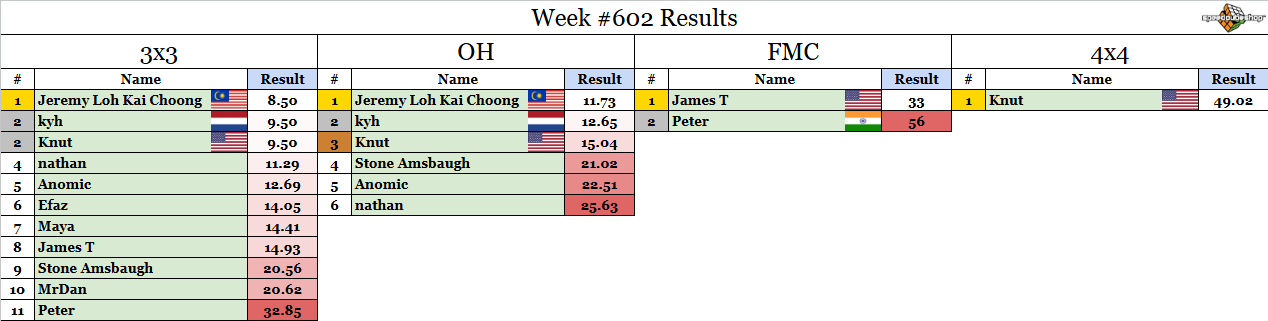
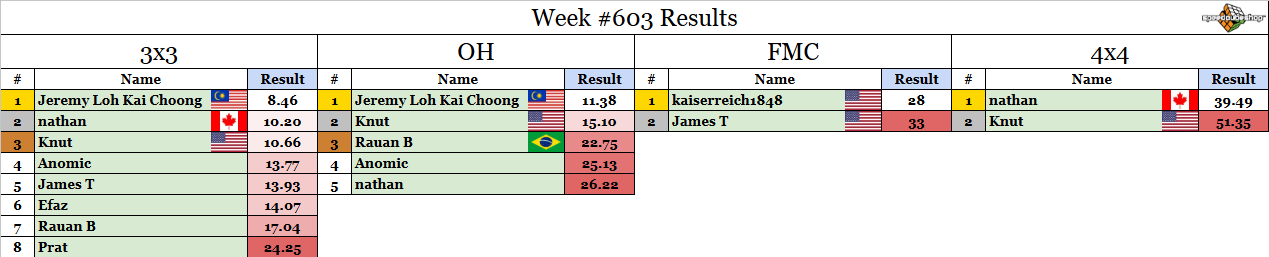
weekly comp update

diff --git a/src/weeklycomp/post.md b/src/weeklycomp/post.md
@@ -1,10 +1,10 @@
-## Weekly Competition #603 
+## Weekly Competition #604 
  
 Sponsored by SpeedCubeShop
 Shop here: [speedcubeshop.com/rouxcomp](https://speedcubeshop.com/rouxcomp)
 Use code ROUX for 5% off
 
-One competitor will be selected at random to receive a $5 SCS gift card! Congrats to last week's winner by a random draw: **Maya**. DM me for the prize. 
+One competitor will be selected at random to receive a $5 SCS gift card! Congrats to last week's winner by a random draw: **Rauan B**. DM me for the prize. 
  
 Check whether or not you participated this week yet at [https://bit.ly/RMSWeeklyCompSummary](https://bit.ly/RMSWeeklyCompSummary)  
  
@@ -18,30 +18,30 @@ Check whether or not you participated this week yet at [https://bit.ly/RMSWeekly
  7. The comp runs until Sunday 5pm Eastern time (more or less). Enter your times using the forms links below. 
  
 ### 3x3: [Submission Form](https://forms.gle/H5xoCWvGKnZ92fQt8) 
- 1. L2 F2 U R2 U L2 B2 D L2 D2 F2 U' L U' F' R2 B D2 U2 R' D2 
- 2. F2 U' L2 U2 R2 D L2 U R2 D L2 R D U' L' U2 B' D' U2 L 
- 3. R' F' R U D' F B' U2 B' F2 L2 U2 R' F2 R B2 U2 R U2 R B2 
- 4. B U R2 U2 F2 R2 F2 D' B2 F2 R2 U2 B' L2 B D' U2 L' D' R2 
- 5. F' L2 D2 U2 B' L2 U2 B F' R2 F D B' L' R' D' L F' D2 B2 
+ 1. U2 L' U2 R2 D' B' L F' U2 D2 R U2 F2 B2 R B2 L2 D2 B2 R D 
+ 2. R2 B' L2 B' D2 B L2 D2 F D2 B R' D' B' U F2 R' U' B' L' F' 
+ 3. L2 D2 F2 D2 F2 U2 B' D2 F' L2 D' L U R' F U L' B2 U2 R2 
+ 4. L' F' D2 B U2 L2 F D2 F2 R2 U2 B' D' L2 F' L R U B F L 
+ 5. D2 B' D2 L2 F R2 B' F U2 F' D2 U' B2 R' B D2 F R' D F2 
  
 ### OH: [Submission Form](https://forms.gle/UgRLW3K1d5KkMGfM9) 
- 1. R D' R2 B2 F2 D' L2 D2 L2 B2 U' L2 R2 B' D' B F' D B2 F' R 
- 2. D2 F U' D2 B2 R U' F2 U2 F' L2 F2 B R2 U2 B D2 L2 D' L2 
- 3. F2 U2 L2 U' F2 U L2 B2 U' R2 B2 R' B F2 R U' L B' L D R' 
- 4. L2 U2 L2 D2 R U2 F2 R B2 F2 L2 D' R F2 U B2 F R' B U2 R 
- 5. U F' B' L' F2 U' R' U B2 L2 F' R2 L2 U2 L2 F' U2 F2 R 
+ 1. B D' L' D L' F2 L2 F' L' F2 R2 D R2 L2 F2 U F2 D' B2 U 
+ 2. U R D2 U2 R' B2 R' D2 U2 F2 R U2 L2 F L2 F' L D' B R2 U' 
+ 3. B2 U2 F2 L2 R' F2 U2 L D2 L' F R F2 D2 R' U F' D' 
+ 4. L' B' U' R U F2 D B' U D2 F2 R2 D L2 U2 B2 D L2 B 
+ 5. F2 R2 B2 L2 D' B2 D L2 U' R2 U2 R2 L' F D2 U2 B D' B F2 U2 
  
 ### FMC: [Submission Form](https://forms.gle/1P9VUgZmA1pibwvL9) 
- 1. R' U' F B U2 B2 U' F2 U2 F2 D2 U' F2 R2 F2 R' U2 B' L' D2 U L2 F' D' R' U' F 
+ 1. R' U' F R' U2 L' B2 L' F2 D2 U2 R B2 U B L F D B2 F D2 L R' U' F 
  
 ### 4x4: [Submission Form](https://forms.gle/bHNjncvEcPvFWBP2A) 
- 1. D F D' R U' R2 B R2 L2 F2 U L2 U' B2 U L2 F2 U' L' D2 Uw2 Rw2 U2 R' F B U2 R Fw2 D2 Uw2 F' Rw2 Uw F2 D2 L2 B' U Fw' Rw2 Uw Fw U' D' Rw' Uw2 
- 2. L2 B U2 R2 F2 R' L2 U2 R' F2 B2 U2 D L' D' B' U' D2 B' L' Uw2 Rw2 D R B2 L2 Uw2 R2 B2 U L' Fw D2 F' B Uw2 F' Rw Uw2 Rw2 Fw' R' U' Rw 
- 3. R F2 D2 F L2 F D2 F R2 U2 F U D2 F' U' L D' R' U' D2 Uw2 Rw2 B2 L2 Rw2 F2 U R' Rw2 F2 U B' U' Fw D' L Uw' B' R D Uw2 L F 
- 4. R2 U2 R' B2 R D2 B2 R U2 L' U2 L' F' U' F R2 U2 R' D L' F Uw2 R' Rw2 D' B2 Fw2 U' R2 F2 L U2 F2 B2 Fw' Rw2 D' B' R U2 Fw2 Rw' D2 F' R2 
- 5. R F' L D B2 D F2 U2 B2 D R2 D L2 F2 B L' D' B' R2 U' F' Rw2 U Rw2 B' Rw2 B2 Rw2 U2 F' Rw2 B' Rw D F Rw2 U L Fw' D Uw2 F' Fw' Rw F' 
+ 1. B2 R' F U2 F' R2 F D2 B U2 L2 F2 L' F' R' U' B' L U' R2 Uw2 F L' Fw2 Rw2 F2 R F2 Uw2 B L2 U2 B D' L2 Uw' R' Rw B' D' Rw2 Uw F L' Rw2 
+ 2. L2 F' L2 D2 F L2 F B R2 U2 B' U F D F D L D R' U2 B' Rw2 F2 D' Rw2 B Rw2 B2 U2 F2 U' Uw2 B Rw Uw2 R2 F L2 B2 R' Rw Uw' B2 Uw Rw D2 Fw 
+ 3. F' U2 R2 F D2 F' R2 F' D2 F2 R' U D2 L2 F B2 R U2 B2 Fw2 D Rw2 B' D2 B2 Rw2 U2 F' B2 R2 L2 F' Rw D2 L' Rw2 B2 Fw' R2 Uw' Rw' U2 Uw Fw 
+ 4. F2 U2 B2 L U2 L D2 F2 D2 R' U' D2 B2 L' B2 U D' B' R2 U Rw2 B' D2 R Uw2 R' Fw2 L Rw2 Uw2 F2 D2 R' Uw' B' U D R' F2 Rw Fw' R L Uw2 L 
+ 5. L D2 L U2 R U2 D' F U2 B' R2 U2 D2 B' L2 B' U2 F' L2 U' R Uw2 B Fw2 Rw2 F U' Fw2 U R2 Fw2 D2 L2 Rw' Fw2 R2 B' L2 Rw' U Fw' R' F2 B' D' Rw 
  
 ### Winning FMC solutions from last week: 
- 1. James T, 33 moves: [SOLUTION](https://bit.ly/47lniZb) 
- 2. Peter, 56 moves: [SOLUTION](https://bit.ly/4hsFEwd)
+ 1. kaiserreich1848, 28 moves: [SOLUTION](https://bit.ly/4ebWVss) 
+ 2. James T, 33 moves: [SOLUTION](https://bit.ly/4hCkVpD)
  
